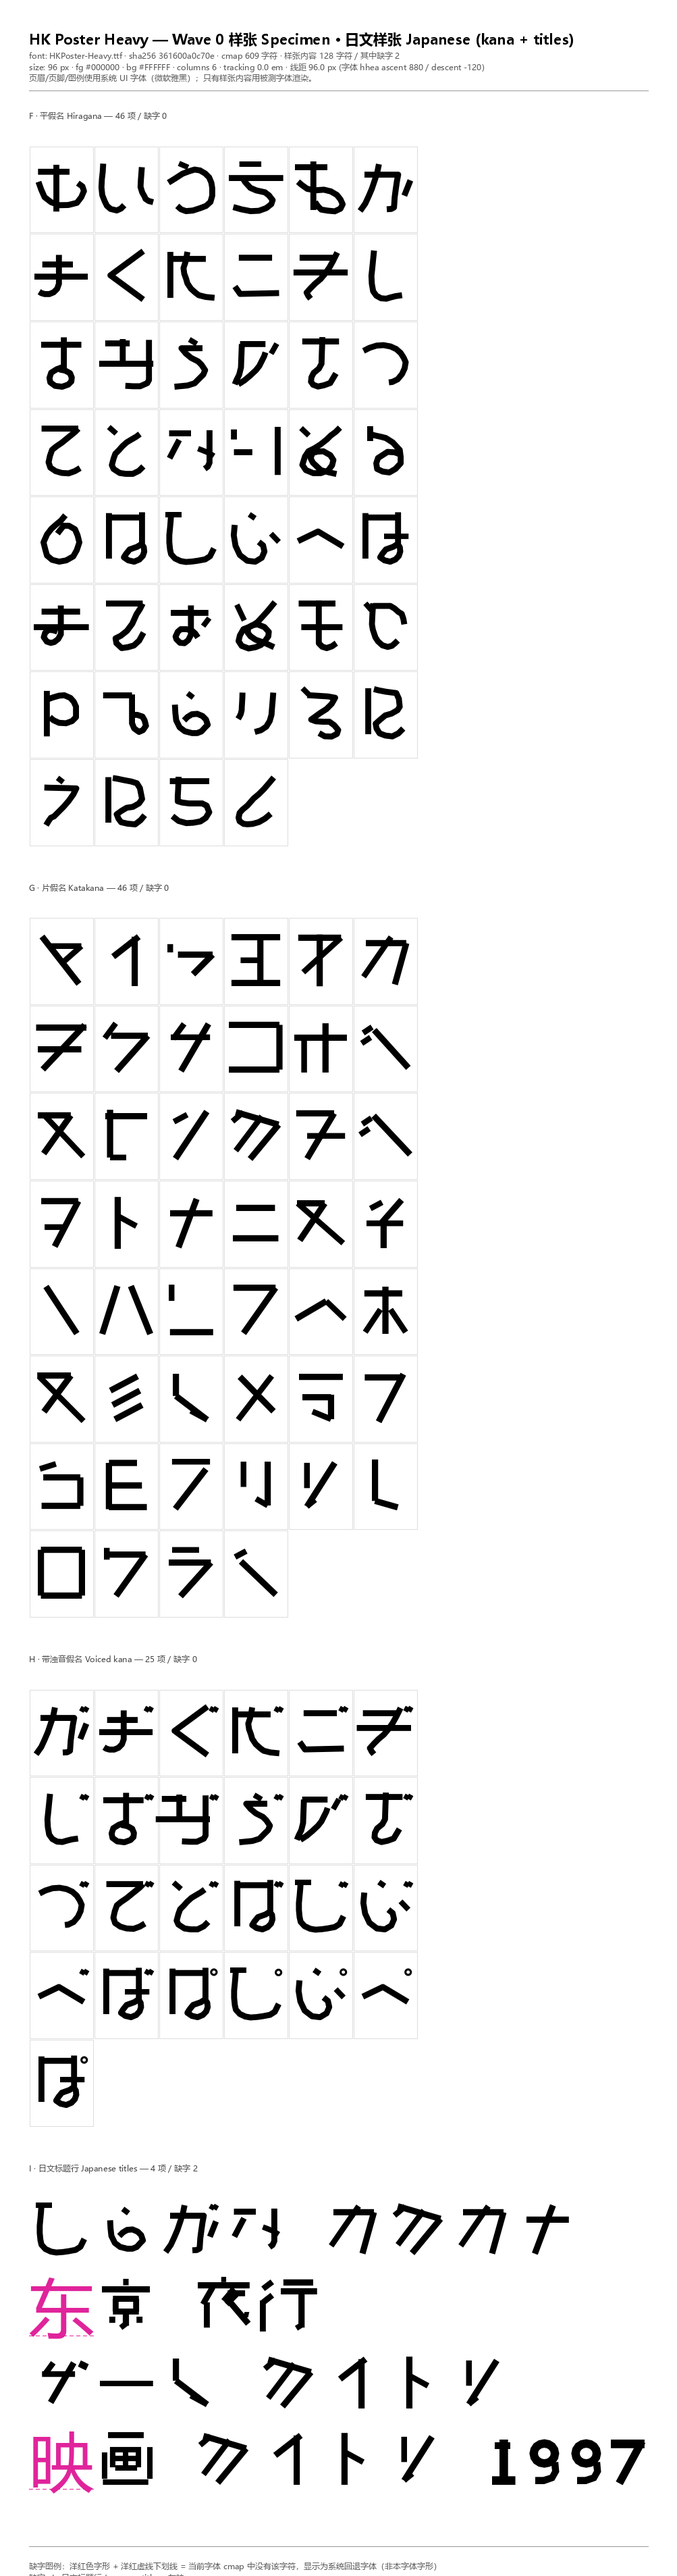
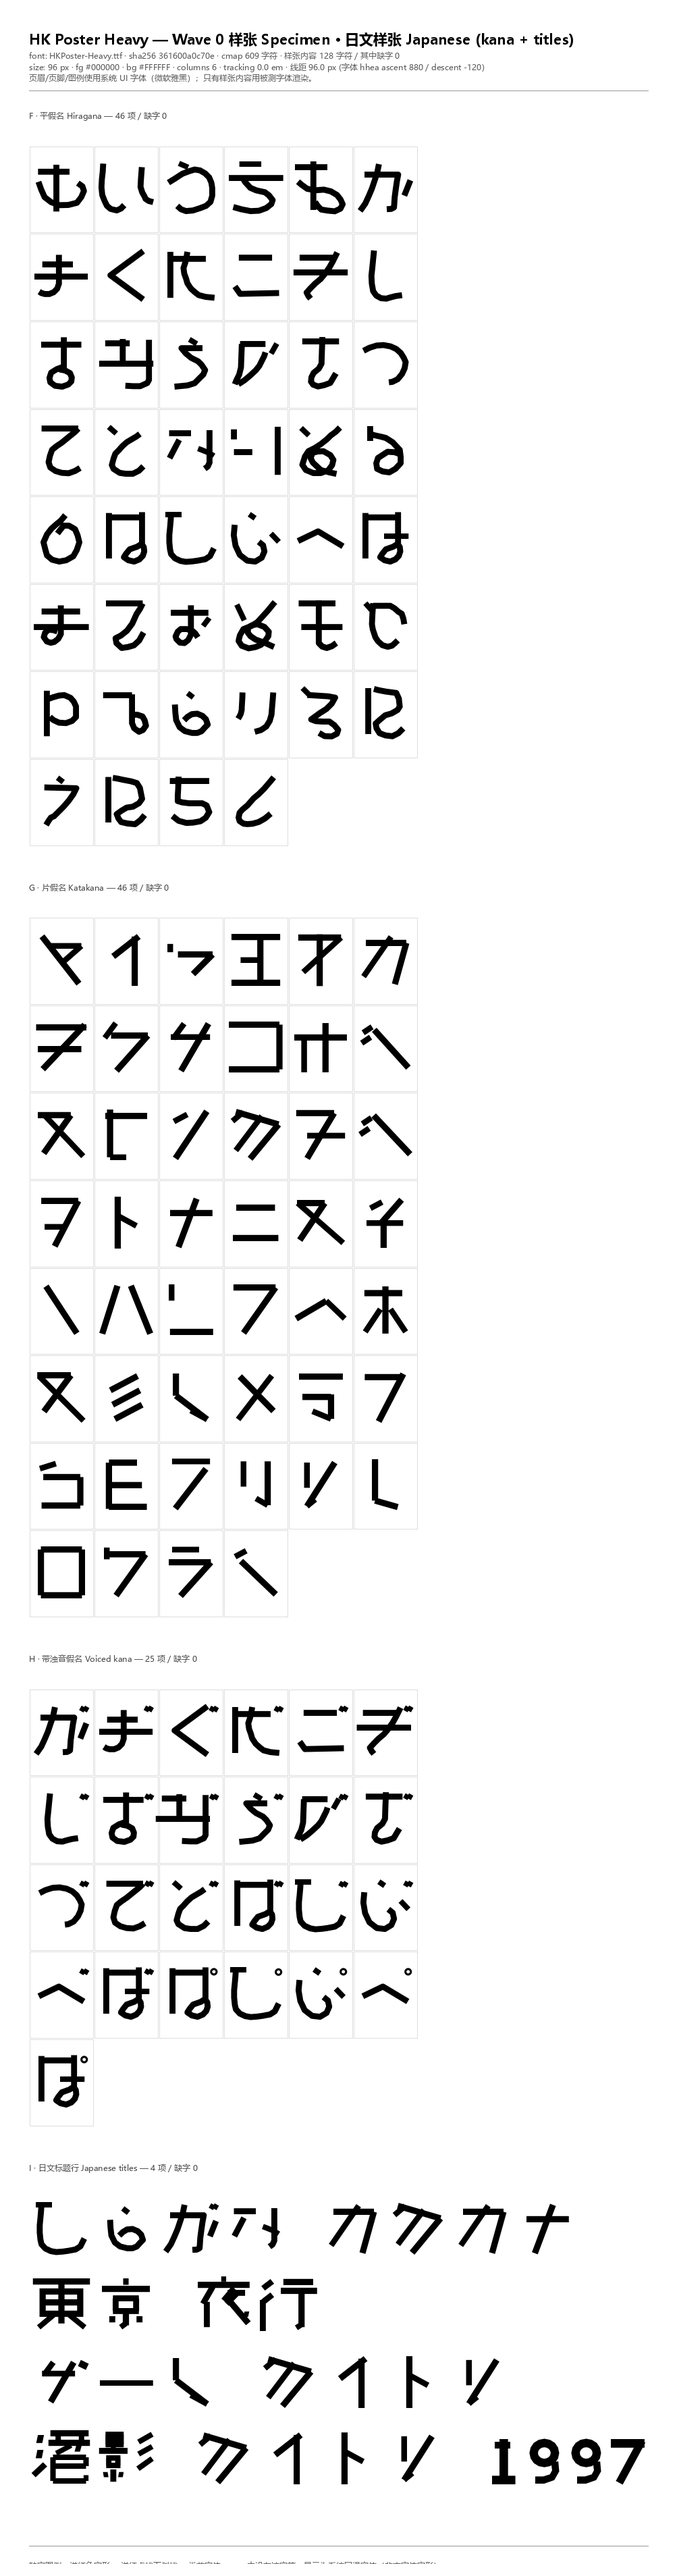
fix(specimen): 日文样张标题行改用已完成的字，缺字 2 → 0
「东京 夜行」的简体「东」我们还没做（简体集只有 龙义爱无风电击间），
「映画」的「映」还在 Jōyō 队列里。样张按设计会把缺字标洋红虚线，
但这两行本可以用已做好的字：改「東京 夜行」（東 已在字体里，且更合港片调子）
与「港影 タイトル 1997」（港影是本字体名）。

diff --git a/font-src/specimens/render_specimens.py b/font-src/specimens/render_specimens.py
@@ -62,7 +62,7 @@ LATIN_TITLES = ["CITY OF SHADOWS", "LAST BULLET", "1997", "HONG KONG"]
 KANA_HIRAGANA = "あいうえおかきくけこさしすせそたちつてとなにぬねのはひふへほまみむめもやゆよらりるれろわをん"
 KANA_KATAKANA = "アイウエオカキクケコサシスセソタチツテトナニヌネノハヒフヘホマミムメモヤユヨラリルレロワヲン"
 KANA_VOICED = "がぎぐげござじずぜぞだぢづでどばびぶべぼぱぴぷぺぽ"
-KANA_TITLES = ["ひらがな カタカナ", "东京 夜行", "ゲーム タイトル", "映画 タイトル 1997"]
+KANA_TITLES = ["ひらがな カタカナ", "東京 夜行", "ゲーム タイトル", "港影 タイトル 1997"]
 
 # 缺字标记色（洋红：在白底、黑底、红字、黄字四种底色上都可辨）
 FALLBACK_COLOR = "#E0249B"
